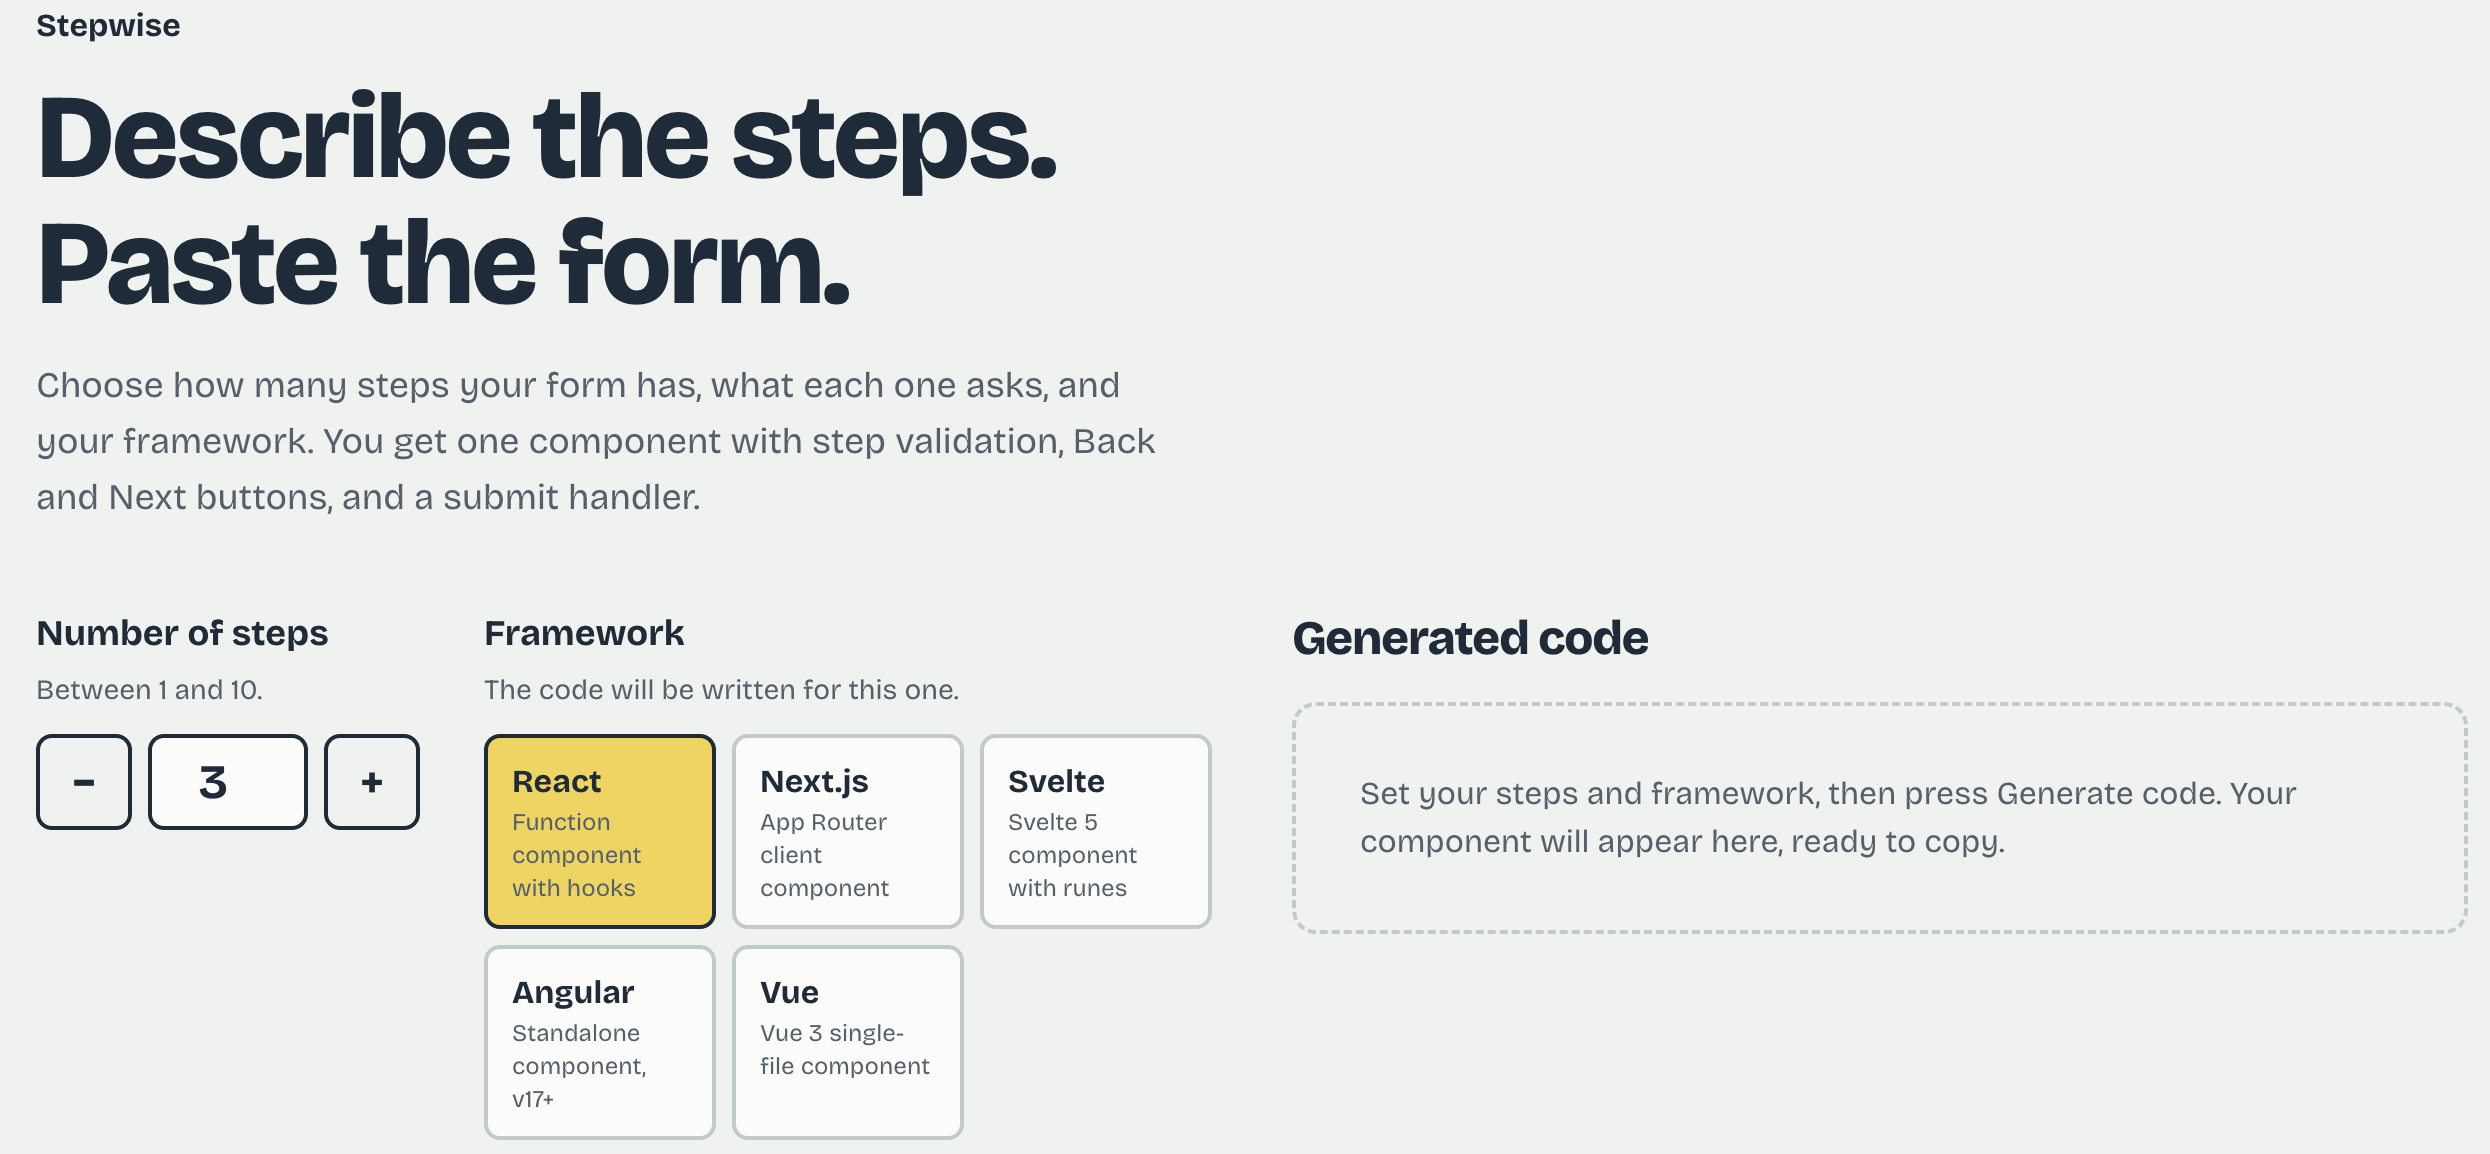
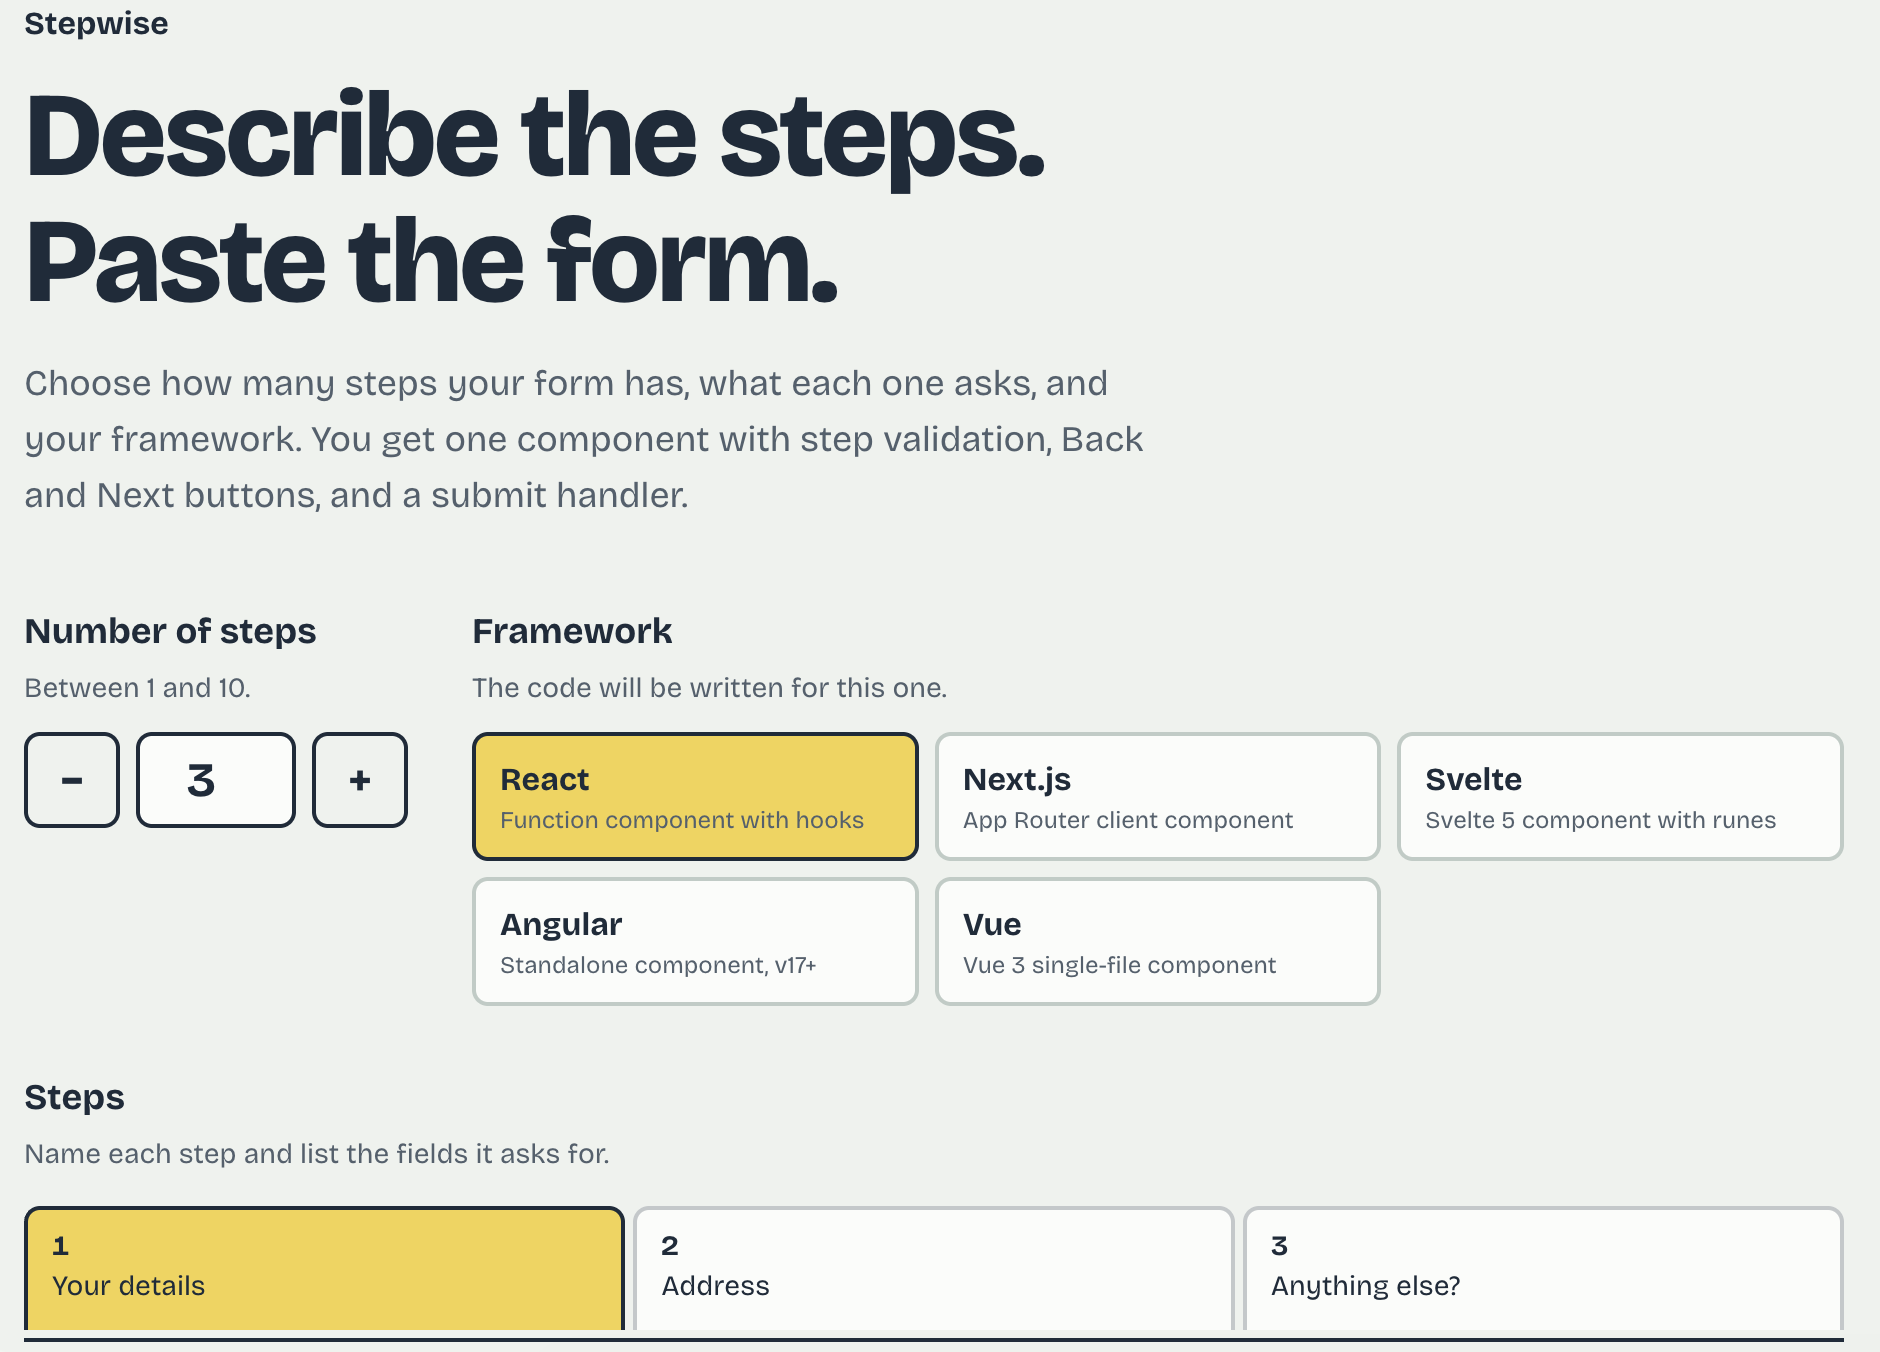
updates

Changed region(s): [[0.0, 0.0624, 0.9872, 0.9983], [0.0, 0.0, 0.0926, 0.0312]]

diff --git a/src/components/Icons.jsx b/src/components/Icons.jsx
@@ -2,7 +2,16 @@ const base = { "aria-hidden": true, focusable: "false" };
 
 export function MailIcon({ className = "size-5" }) {
   return (
-    <svg {...base} className={className} viewBox="0 0 24 24" fill="none" stroke="currentColor" strokeWidth="2" strokeLinecap="round" strokeLinejoin="round">
+    <svg
+      {...base}
+      className={className}
+      viewBox="0 0 24 24"
+      fill="none"
+      stroke="currentColor"
+      strokeWidth="2"
+      strokeLinecap="round"
+      strokeLinejoin="round"
+    >
       <rect x="3" y="5" width="18" height="14" rx="3" />
       <path d="m4 7 8 6 8-6" />
     </svg>
@@ -11,7 +20,12 @@ export function MailIcon({ className = "size-5" }) {
 
 export function LinkedInIcon({ className = "size-6" }) {
   return (
-    <svg {...base} className={className} viewBox="0 0 24 24" fill="currentColor">
+    <svg
+      {...base}
+      className={className}
+      viewBox="0 0 24 24"
+      fill="currentColor"
+    >
       <path d="M20.45 20.45h-3.56v-5.57c0-1.33-.02-3.04-1.85-3.04-1.85 0-2.14 1.45-2.14 2.94v5.67H9.34V9h3.41v1.56h.05c.48-.9 1.64-1.85 3.37-1.85 3.6 0 4.27 2.37 4.27 5.46v6.28ZM5.34 7.43a2.06 2.06 0 1 1 0-4.13 2.06 2.06 0 0 1 0 4.13ZM7.12 20.45H3.56V9h3.56v11.45Z" />
     </svg>
   );
@@ -19,7 +33,12 @@ export function LinkedInIcon({ className = "size-6" }) {
 
 export function GitHubIcon({ className = "size-6" }) {
   return (
-    <svg {...base} className={className} viewBox="0 0 24 24" fill="currentColor">
+    <svg
+      {...base}
+      className={className}
+      viewBox="0 0 24 24"
+      fill="currentColor"
+    >
       <path d="M12 .3a12 12 0 0 0-3.8 23.38c.6.12.83-.26.83-.57v-2.02c-3.34.73-4.04-1.6-4.04-1.6-.55-1.4-1.34-1.76-1.34-1.76-1.08-.74.09-.73.09-.73 1.2.09 1.83 1.24 1.83 1.24 1.07 1.83 2.8 1.3 3.49 1 .1-.78.42-1.3.76-1.6-2.67-.3-5.47-1.33-5.47-5.93 0-1.31.47-2.38 1.24-3.22-.13-.3-.54-1.52.1-3.18 0 0 1-.32 3.3 1.23a11.5 11.5 0 0 1 6 0c2.28-1.55 3.29-1.23 3.29-1.23.64 1.66.23 2.88.12 3.18.77.84 1.23 1.91 1.23 3.22 0 4.61-2.8 5.63-5.48 5.92.43.37.81 1.1.81 2.22v3.29c0 .32.22.7.82.58A12 12 0 0 0 12 .3Z" />
     </svg>
   );
@@ -27,7 +46,16 @@ export function GitHubIcon({ className = "size-6" }) {
 
 export function CopyIcon({ className = "size-5" }) {
   return (
-    <svg {...base} className={className} viewBox="0 0 24 24" fill="none" stroke="currentColor" strokeWidth="2" strokeLinecap="round" strokeLinejoin="round">
+    <svg
+      {...base}
+      className={className}
+      viewBox="0 0 24 24"
+      fill="none"
+      stroke="currentColor"
+      strokeWidth="2"
+      strokeLinecap="round"
+      strokeLinejoin="round"
+    >
       <rect x="9" y="9" width="12" height="12" rx="3" />
       <path d="M5 15H4a1 1 0 0 1-1-1V4a1 1 0 0 1 1-1h10a1 1 0 0 1 1 1v1" />
     </svg>
@@ -36,7 +64,16 @@ export function CopyIcon({ className = "size-5" }) {
 
 export function CheckIcon({ className = "size-5" }) {
   return (
-    <svg {...base} className={className} viewBox="0 0 24 24" fill="none" stroke="currentColor" strokeWidth="2.5" strokeLinecap="round" strokeLinejoin="round">
+    <svg
+      {...base}
+      className={className}
+      viewBox="0 0 24 24"
+      fill="none"
+      stroke="currentColor"
+      strokeWidth="2.5"
+      strokeLinecap="round"
+      strokeLinejoin="round"
+    >
       <path d="m5 12 5 5L20 7" />
     </svg>
   );
@@ -44,7 +81,15 @@ export function CheckIcon({ className = "size-5" }) {
 
 export function SunIcon({ className = "size-5" }) {
   return (
-    <svg {...base} className={className} viewBox="0 0 24 24" fill="none" stroke="currentColor" strokeWidth="2" strokeLinecap="round">
+    <svg
+      {...base}
+      className={className}
+      viewBox="0 0 24 24"
+      fill="none"
+      stroke="currentColor"
+      strokeWidth="2"
+      strokeLinecap="round"
+    >
       <circle cx="12" cy="12" r="4" />
       <path d="M12 2v2M12 20v2M4.9 4.9l1.4 1.4M17.7 17.7l1.4 1.4M2 12h2M20 12h2M4.9 19.1l1.4-1.4M17.7 6.3l1.4-1.4" />
     </svg>
@@ -53,7 +98,16 @@ export function SunIcon({ className = "size-5" }) {
 
 export function MoonIcon({ className = "size-5" }) {
   return (
-    <svg {...base} className={className} viewBox="0 0 24 24" fill="none" stroke="currentColor" strokeWidth="2" strokeLinecap="round" strokeLinejoin="round">
+    <svg
+      {...base}
+      className={className}
+      viewBox="0 0 24 24"
+      fill="none"
+      stroke="currentColor"
+      strokeWidth="2"
+      strokeLinecap="round"
+      strokeLinejoin="round"
+    >
       <path d="M20 14.5A8 8 0 0 1 9.5 4a8 8 0 1 0 10.5 10.5Z" />
     </svg>
   );
@@ -61,15 +115,36 @@ export function MoonIcon({ className = "size-5" }) {
 
 export function MenuIcon({ open, className = "size-5" }) {
   return (
-    <svg {...base} className={className} viewBox="0 0 24 24" fill="none" stroke="currentColor" strokeWidth="2" strokeLinecap="round">
-      {open ? <path d="M6 6l12 12M18 6 6 18" /> : <path d="M4 7h16M4 12h16M4 17h16" />}
+    <svg
+      {...base}
+      className={className}
+      viewBox="0 0 24 24"
+      fill="none"
+      stroke="currentColor"
+      strokeWidth="2"
+      strokeLinecap="round"
+    >
+      {open ? (
+        <path d="M6 6l12 12M18 6 6 18" />
+      ) : (
+        <path d="M4 7h16M4 12h16M4 17h16" />
+      )}
     </svg>
   );
 }
 
 export function ExternalIcon({ className = "size-4" }) {
   return (
-    <svg {...base} className={className} viewBox="0 0 24 24" fill="none" stroke="currentColor" strokeWidth="2" strokeLinecap="round" strokeLinejoin="round">
+    <svg
+      {...base}
+      className={className}
+      viewBox="0 0 24 24"
+      fill="none"
+      stroke="currentColor"
+      strokeWidth="2"
+      strokeLinecap="round"
+      strokeLinejoin="round"
+    >
       <path d="M7 17 17 7M8 7h9v9" />
     </svg>
   );
@@ -77,7 +152,16 @@ export function ExternalIcon({ className = "size-4" }) {
 
 export function DownloadIcon({ className = "size-5" }) {
   return (
-    <svg {...base} className={className} viewBox="0 0 24 24" fill="none" stroke="currentColor" strokeWidth="2" strokeLinecap="round" strokeLinejoin="round">
+    <svg
+      {...base}
+      className={className}
+      viewBox="0 0 24 24"
+      fill="none"
+      stroke="currentColor"
+      strokeWidth="2"
+      strokeLinecap="round"
+      strokeLinejoin="round"
+    >
       <path d="M12 4v11M7 10l5 5 5-5M5 20h14" />
     </svg>
   );

diff --git a/src/data/content.js b/src/data/content.js
@@ -68,7 +68,8 @@ export const projects = {
   vibe: [
     {
       title: "Fraction Lab",
-      description: "Teaches you how fractions work",
+      description:
+        "A web app that teaches how fractions work: basics, adding, subtracting, multiplying and dividing.",
       stack: ["Claude", "React", "Vite", "Tailwind"],
       live: "https://corianderstudios.github.io/fraction-lab/",
       code: "https://github.com/corianderstudios/fraction-lab",
@@ -89,7 +90,8 @@ export const projects = {
     },
     {
       title: "Stepwise",
-      description: "Multi-step Form Builder",
+      description:
+        " A web app that writes a multistep form component for you. Pick how many steps you need, name each step and its fields, choose a framework, press Generate code, and copy the result.",
       stack: ["Claude", "React", "Vite"],
       live: "https://corianderstudios.github.io/multi-step-form-builder/",
       code: "https://github.com/corianderstudios/multi-step-form-builder",
@@ -106,7 +108,18 @@ export const projects = {
       code: "https://github.com/corianderstudios/ts-tutor",
       image: "images/TypeScript.png",
       imageAlt: "Image of typescript tutor homepage",
-      color: "tangerine",
+      color: "butter",
+    },
+    {
+      title: "Access Ready",
+      description:
+        "A study app for web developers preparing for the IAAP CPACC, WAS and ADS accessibility certifications.",
+      stack: ["Claude", "React", "Vite"],
+      live: "https://corianderstudios.github.io/access-ready/",
+      code: "https://github.com/corianderstudios/access-ready",
+      image: "images/AccessReady.png",
+      imageAlt: "Image of access ready homepage",
+      color: "sky",
     },
   ],
 };
@@ -148,9 +161,9 @@ export const experience = [
 
 export const hobbies = [
   {
-    name: "Building Hardware",
-    color: "butter",
-    blurb: "I like to solder",
+    name: "Baking",
+    color: "lilac",
+    blurb: "My oven runs hot, but the cookies are delicious.",
   },
   {
     name: "Running",
@@ -158,13 +171,13 @@ export const hobbies = [
     blurb: "30 miles a week.",
   },
   {
+    name: "Building Hardware",
+    color: "butter",
+    blurb: "I like to solder",
+  },
+  {
     name: "Travel",
     color: "sky",
     blurb: "Climbed a volcano in Guatemala to see another volcao errupt.",
-  },
-  {
-    name: "Baking",
-    color: "lilac",
-    blurb: "My oven runs hot, but the cookies are delicious.",
   },
 ];
